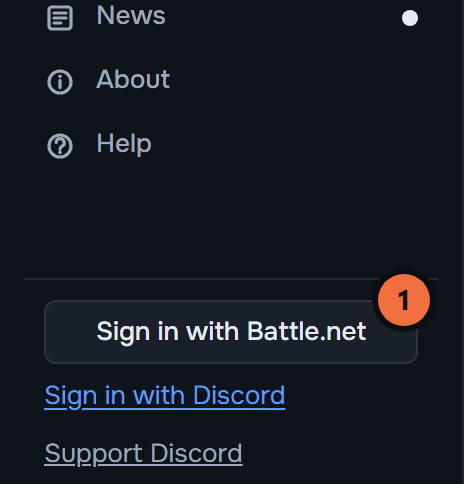
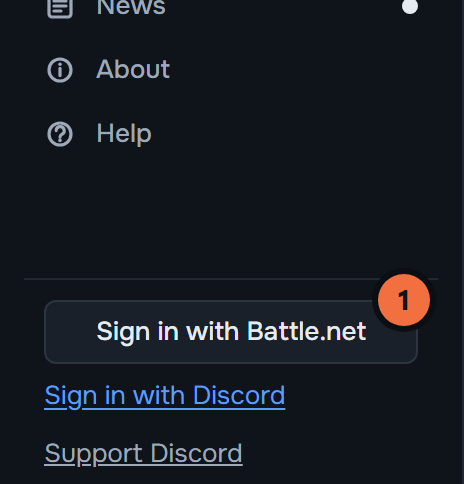
Help pictures for Sign in and across the guild open pages a signed-out visitor can reach (#1650)

diff --git a/tests/browser-app/app.test.js b/tests/browser-app/app.test.js
@@ -2521,17 +2521,9 @@ const HELP_SHOT_STATES = {
 // already open.
 const katOnPage = (path, sentinel = 'main h1') => ({ ...katProfile(), path, sentinel });
 const HELP_MENU_SHOTS = {
-  // Signed out: the button at the bottom of the sidebar. Nobody live, so the
-  // sidebar's live count isn't mistaken for a marker.
-  'sign-in': {
-    state: {
-      path: '/g/wga/t/phoenix',
-      sentinel: 'main:has(.home-loot-table)',
-      tables: { ...HOME_TABLES, streamers: [] },
-      clock: TODAY
-    },
-    item: '.sidebar >> role=button[name="Sign in with Battle.net"]'
-  },
+  // Signed out: the button at the bottom of the sidebar, on the front page,
+  // since a team's pages send anyone signed out there (#1264).
+  'sign-in': { state: FRONT, item: '.sidebar >> role=button[name="Sign in with Battle.net"]' },
   'officer-settings': { state: SETTINGS_GENERAL, item: '.sidebar >> text="Settings"' },
   'officer-invite': {
     state: { session: OFFICER, who: 'officer', path: '/g/wga/t/phoenix/officer/invite', sentinel: '.sidebar' },
@@ -2768,7 +2760,7 @@ const FRONT_SHOTS = {
     state: { ...REPORT, path: '/g/wga/t/phoenix/officer/reports/loot-fairness' },
     frame: '.card.fairness'
   },
-  'across-the-guild': { state: GUILD, frame: 'main', at: '.guild-team' }
+  'across-the-guild': { state: asMember(GUILD), frame: 'main', at: '.guild-team' }
 };
 const FRONT_FILLED = { ...FRONT, news: NEWS_ENTRIES, tables: { seasons: REPORT_TABLES.seasons } };
 

diff --git a/docs/revamp-time-log.md b/docs/revamp-time-log.md
@@ -16,8 +16,8 @@ Work that happened in the same sessions but isn't part of the revamp (bug fixes,
 | Revamp 1: decisions and foundation |      6 h 55 m |
 | Revamp 2: public pages             |     38 h 15 m |
 | Revamp 3: officer dashboard        |     55 h 46 m |
-| Revamp 4: cutover                  |     13 h 55 m |
-| **All revamp work**                | **130 h 51 m** |
+| Revamp 4: cutover                  |      14 h 5 m |
+| **All revamp work**                | **131 h 1 m** |
 
 Totals are the sum of the rows below. They were kept by hand until 2026-09-18, when they turned out 12 minutes short (the 2026-09-15 review row for PR #1204 had never been added).
 
@@ -473,7 +473,7 @@ Totals are the sum of the rows below. They were kept by hand until 2026-09-18, w
 | 11:00-11:20 AM | PR #1705 (#1650): the push waited on a ledger check that cannot reach production from here (stopped, PR body corrected); CodeRabbit's two test notes (the handover's audit row; another guild's Owner refused on all three) | Revamp 4 (#1650) | 20 m | ~15 m build, ~5 m Kat | not read | The fresh-agent review and merge not yet counted |
 | 11:20-11:34 AM | PR #1705 (#1650): the fresh-agent review (changes requested): a leftover `member` row from the current site's Revoke kept someone who left every team in the guild (counts for nothing now; Member always clears it); the guild can't go to someone who never signed in; the shown Name from current teams only; tests for each, a Team Lead and a real Name; full database suite, generated docs, decision log, RLS.md; the re-review approved; Kat merged 11:34 AM | Revamp 4 (#1650) | 15 m | ~12 m build, ~3 m Kat | not read | |
 | 11:34-11:40 AM | After #1705: branches cleaned up, status comment on #1650, handoff note | Revamp 4 (#1650) | 5 m | ~5 m build | not read | |
-| 9:59-10:10 PM | #1650 Help guide pictures: the Owners and Admins guide gets a picture of the Members tab (the tab, a rank, Make Admin and Hand over ownership marked) and of the Hand over ownership pop-up; `help:shots` showed two older pictures (the sign-in sidebar and the front page's across-the-guild) failing on main too, left alone; stamp, changelog, this row | Revamp 4 (#1650) | 10 m | ~10 m build | not read | Merge not yet counted |
+| 9:59-10:20 PM | #1650 Help guide pictures: the Owners and Admins guide gets a picture of the Members tab (the tab, a rank, Make Admin and Hand over ownership marked) and of the Hand over ownership pop-up; `help:shots` showed two older pictures (the sign-in sidebar and the front page's across-the-guild) failing on main too: both opened pages that send anyone signed out to the front page since #1264; Kat asked to fix them here (the sign-in picture now on the front page, the guild one signed in as a member); stamp, changelog, this row | Revamp 4 (#1650) | 20 m | ~18 m build, ~2 m Kat | not read | Merge not yet counted |
 
 ## Not counted (same sessions, not revamp)
 

diff --git a/CHANGELOG.md b/CHANGELOG.md
@@ -19,6 +19,9 @@ answers to.
 - The new app's Help guide for managing the guild's ranks (#1650) has
   pictures: the Members tab with the steps marked, and the Hand over
   ownership pop-up.
+- The Sign in guide's picture is taken on the front page, and the
+  front page's "across the guild" picture signed in as a member: both had
+  opened pages that now send anyone signed out to the front page (#1264).
 
 ## [3.224.0] - 2026-10-29
 
